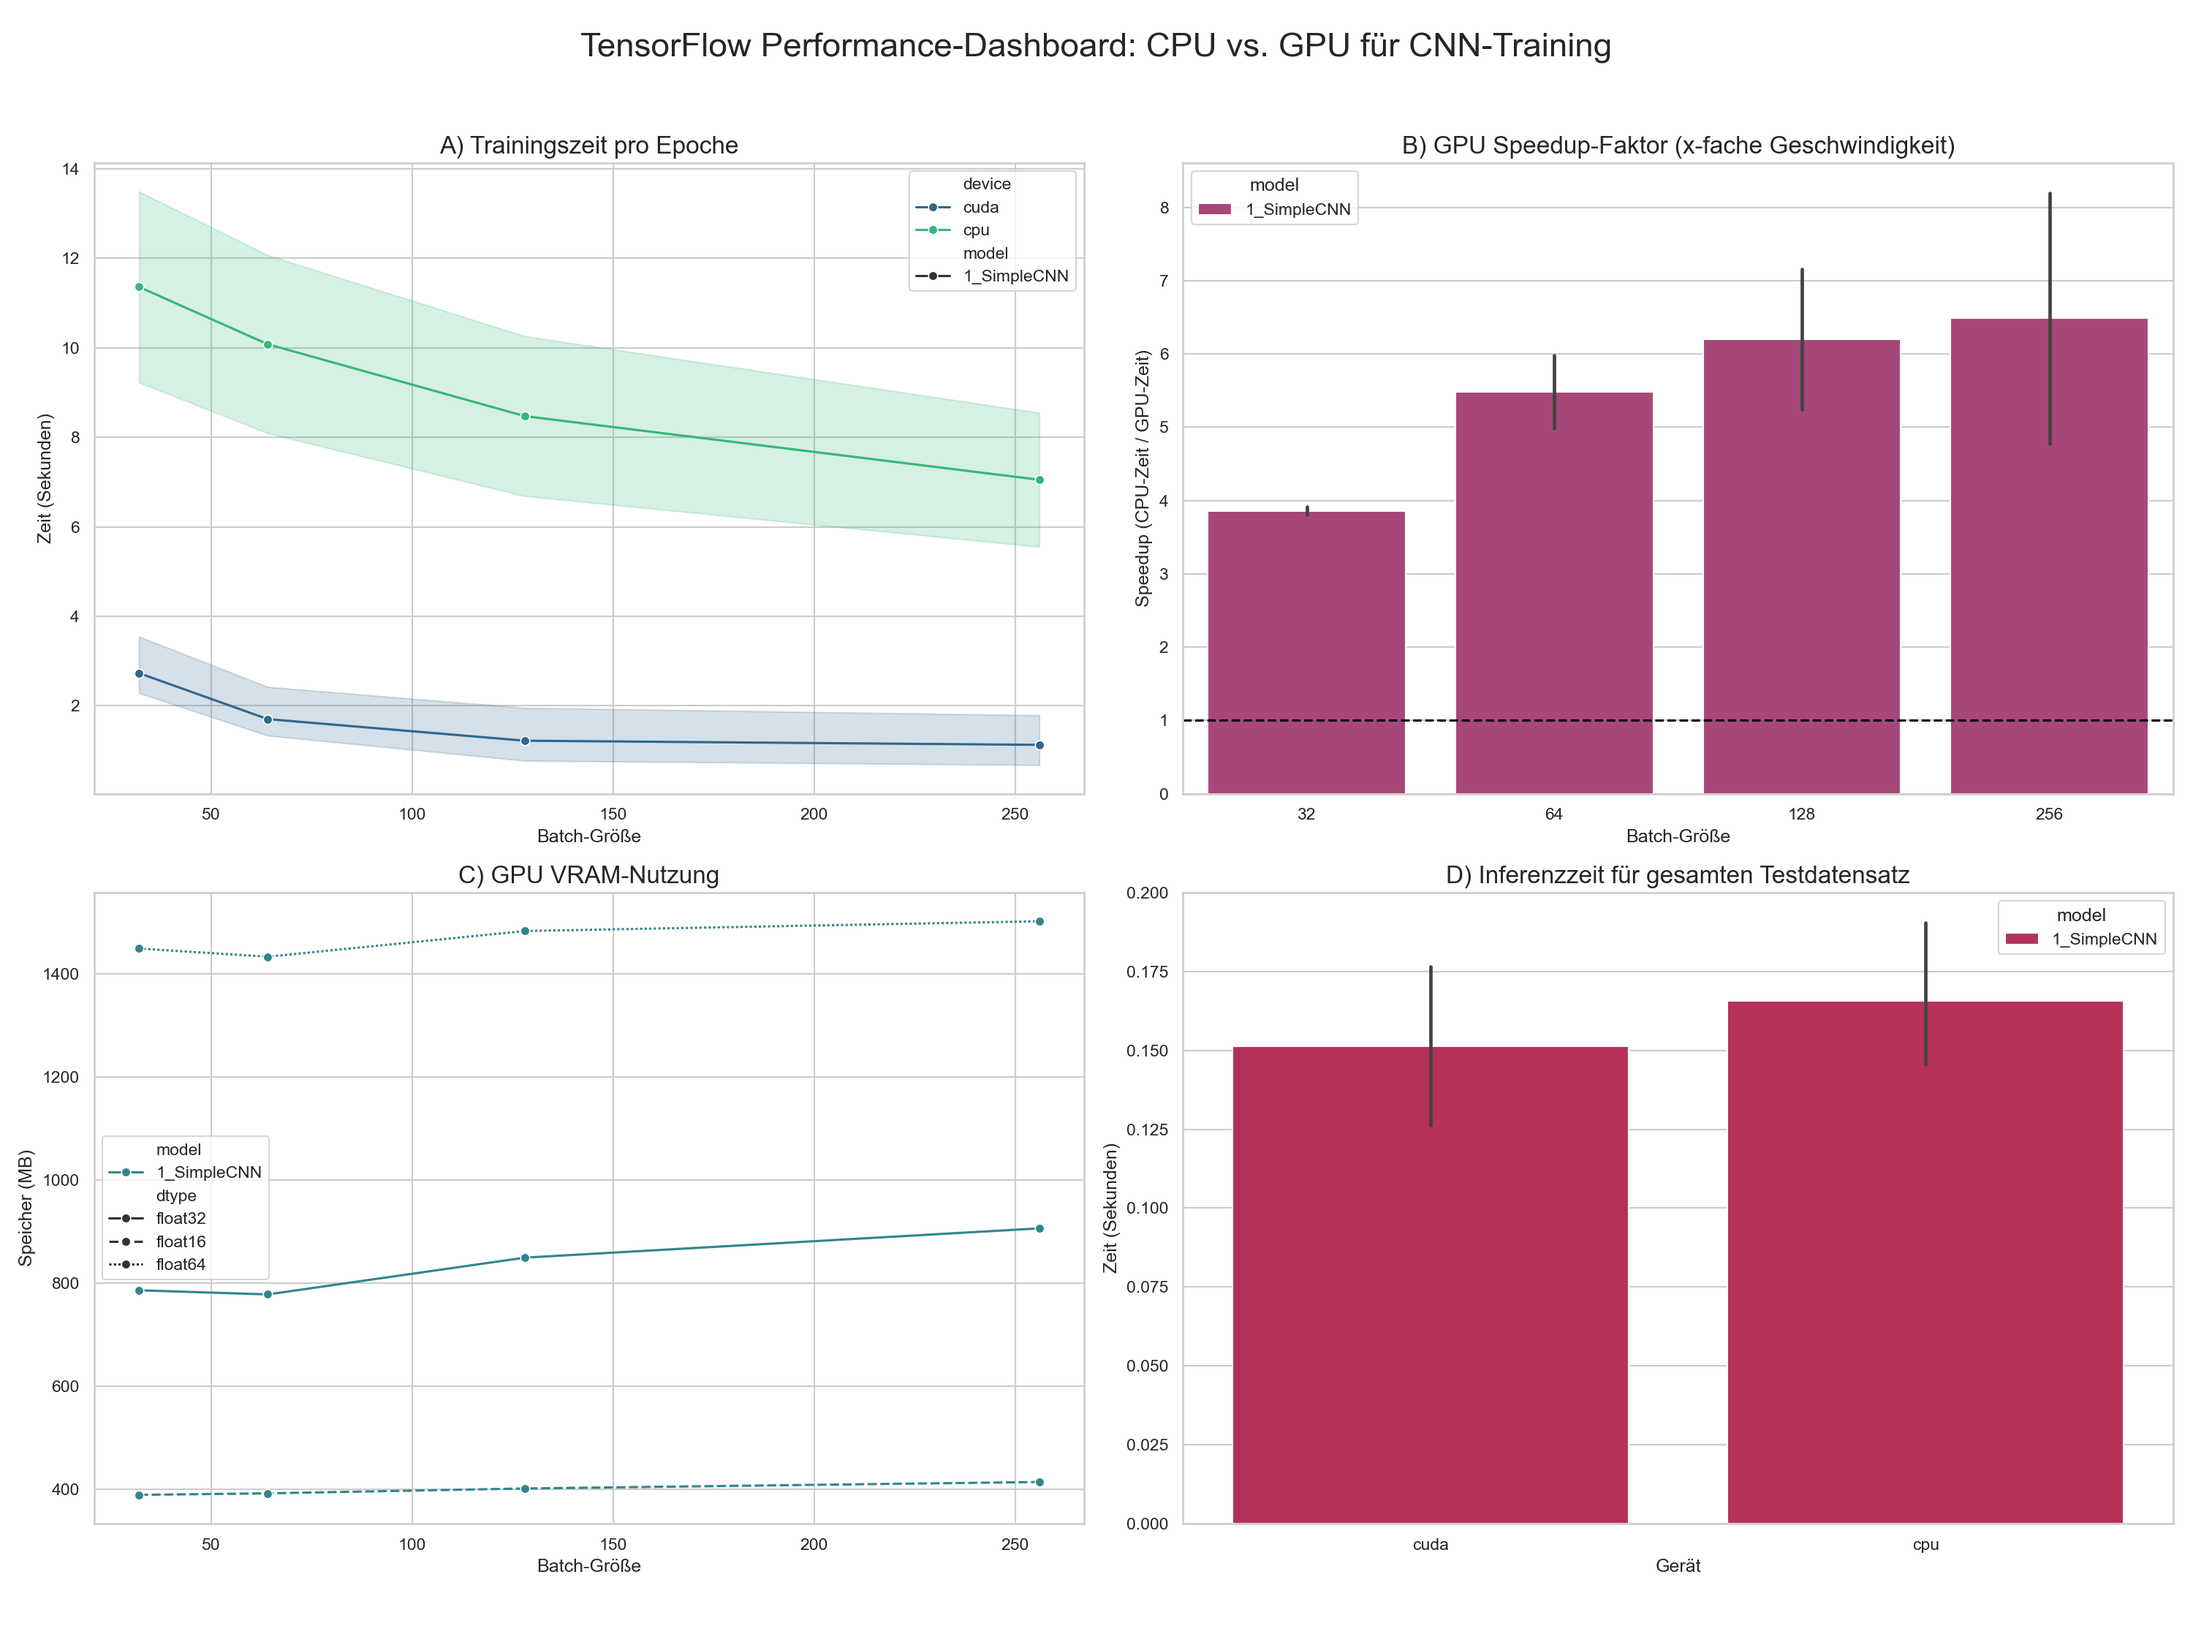
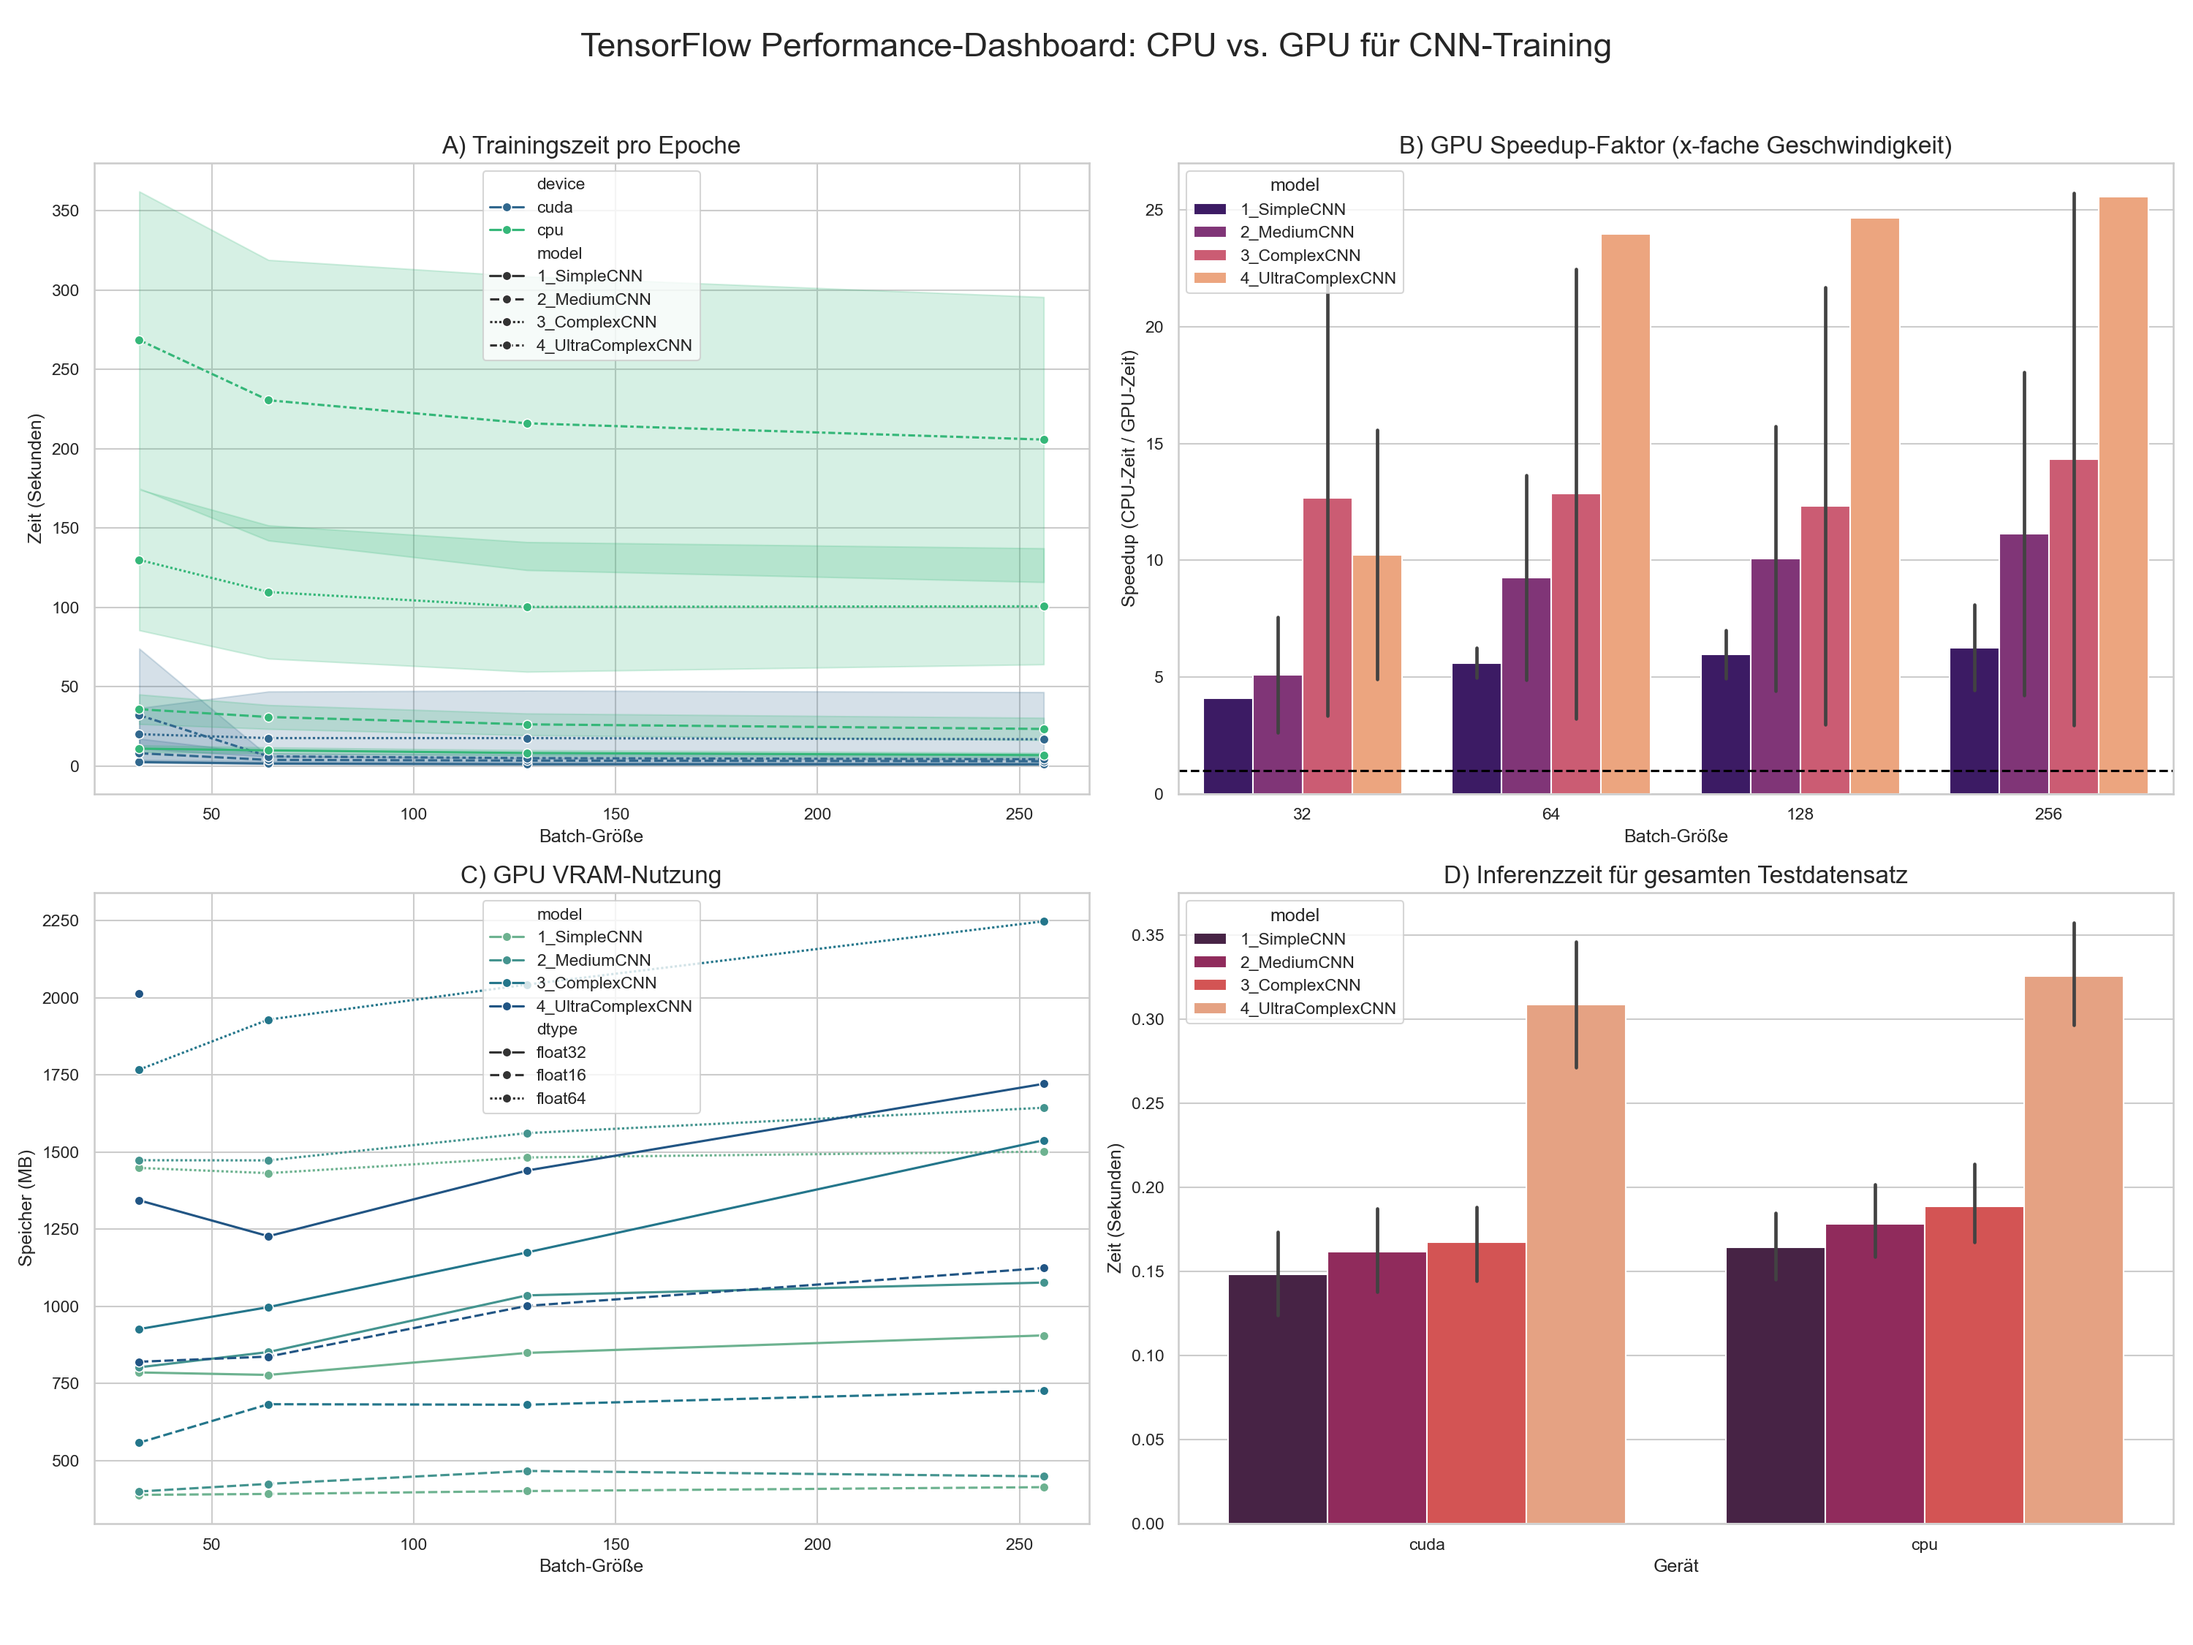
png + CSV

diff --git a/Experimente/Experiment_Tensorflow.py b/Experimente/Experiment_Tensorflow.py
@@ -67,13 +67,14 @@ def SimpleCNN_TF(num_classes=10):
         tf.keras.layers.Flatten(),
         tf.keras.layers.Dense(num_classes)
     ])
-"""
-def MediumCNN_TF(num_classes=10):
     
+
+def MediumCNN_TF(num_classes=10):
+    """
     Stufe 2: Ein mittelkomplexes CNN.
     - Zwei separate Conv-Blöcke zur besseren Merkmalsextraktion.
     - Eine kleine Dense-Schicht vor der Ausgabe.
-    
+    """
     return tf.keras.Sequential([
         tf.keras.layers.Input((32, 32, 3)),
         tf.keras.layers.Conv2D(32, 3, padding='same', activation='relu'),
@@ -84,14 +85,13 @@ def MediumCNN_TF(num_classes=10):
         tf.keras.layers.Dense(64, activation='relu'),
         tf.keras.layers.Dense(num_classes)
     ])
-"""
-"""
+
 def ComplexCNN_TF(num_classes=10):
-    
+    """
     Stufe 3: Ein komplexeres, tieferes CNN.
     - Gestapelte Conv-Schichten innerhalb eines Blocks für komplexere Muster.
     - Eine große Dense-Schicht als leistungsfähiger Klassifikator.
-    
+    """
     return tf.keras.Sequential([
         tf.keras.layers.Input((32, 32, 3)),
         tf.keras.layers.Conv2D(32, 3, padding='same', activation='relu'),
@@ -103,7 +103,7 @@ def ComplexCNN_TF(num_classes=10):
         tf.keras.layers.Dense(512, activation='relu'),
         tf.keras.layers.Dense(num_classes)
     ])
-"""
+
 def UltraComplexCNN_TF(num_classes=10):
     """
     Stufe 4: Ein sehr tiefes und modernes CNN, inspiriert von gängigen Architekturen.
@@ -162,9 +162,9 @@ def UltraComplexCNN_TF(num_classes=10):
 # Dies ermöglicht es, einfach durch die zu testenden Modelle zu iterieren.
 MODELS_TO_TEST = {
     '1_SimpleCNN': SimpleCNN_TF,
-    #'2_MediumCNN': MediumCNN_TF,
-   # '3_ComplexCNN': ComplexCNN_TF,
-   # '4_UltraComplexCNN': UltraComplexCNN_TF,
+    '2_MediumCNN': MediumCNN_TF,
+    '3_ComplexCNN': ComplexCNN_TF,
+    '4_UltraComplexCNN': UltraComplexCNN_TF,
 }
 
 # =============================================================================
